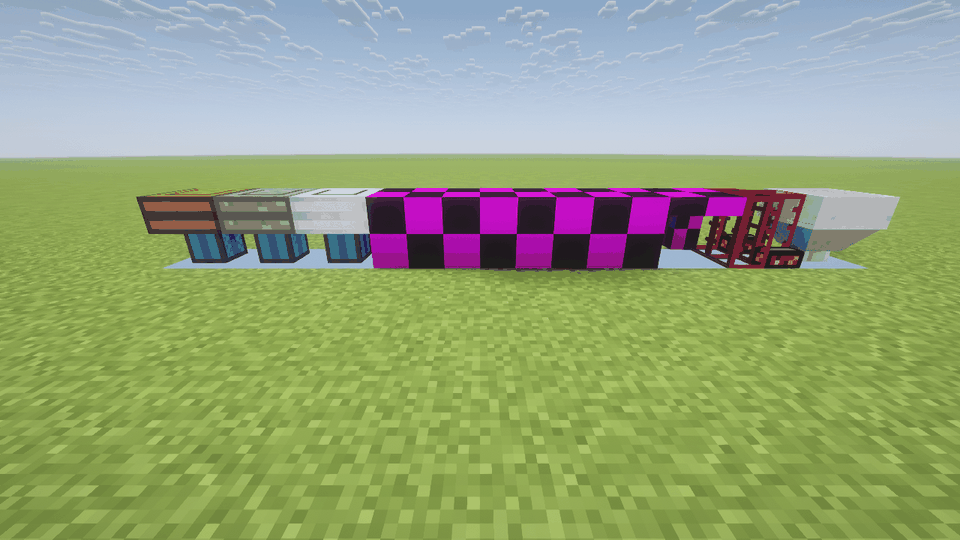
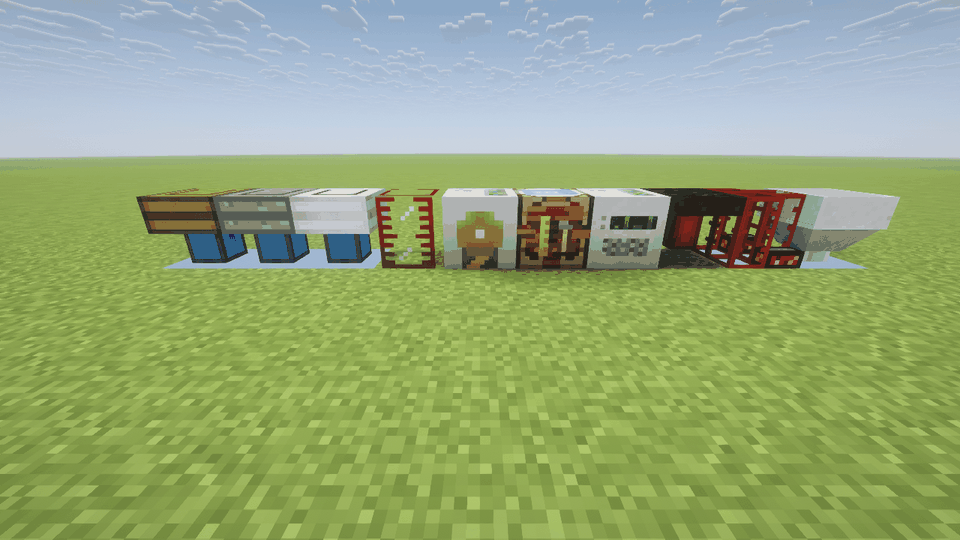
1.4.7: BuildCraft shot, ratings, README and wiki status, BTW status
Claude-Session: https://claude.ai/code/session_013WYWcbTXcR9yZDGwQA1imZ

diff --git a/docs/wiki/Legacy-1.4.7-Estimate.md b/docs/wiki/Legacy-1.4.7-Estimate.md
@@ -87,3 +87,16 @@ Server loads of the corpus in batches (`./gradlew runServerSubTest`, mods in `ru
 - **Fixed this round:** a default-package mod class (ModLoader `mod_X`) kept two private roots; items a numeric-id mod never registers are registered (More Swords); constructor adaptation casts narrowed parameters instead of passing null (AI task owners: every Grimoire mob failed to tick); notch member lookup through packaged Forge interfaces (`ISidedInventory` implementors kept notch method names); one synthesized name per class (flat and packaged `TextureFX` were two classes, a `VerifyError` for RedPower's animated textures); `BiomeCacheBlock` (Twilight Forest chunk generation); the home area on `EntityLiving` (ghasts).
 - **Open:** RedPower's own sheets (`worlditems1.png`, `base1.png`) are cut but its items name tiles through a path the layer does not read yet (`iconIndex` stays -1), tessellator renderers (RedPower multipart, AE cables) are untested, texture animations (`TextureFXManager`) link but do nothing, the liquids API adapter is not written, `@PreInit/@Init/@PostInit` work (every mod above uses them), Mystcraft's age dimensions, Forestry/Binnie's duplicate genetics API classes, Immibis' mods need IC2/ComputerCraft present.
 - **What blocks "supported":** the open items above plus client verification of GUIs for more than one mod; the corpus has no IC2, Railcraft, Thermal Expansion or Thaumcraft 3.
+
+## Status 2026-11-07 (evening: RedPower renders)
+
+Verified in a real client (Sodium, Iris, Complementary shaders; RedPower 2 all modules in the Core/Digital/Mechanical/Compat zips, Applied Energistics rv9, BuildCraft, ComputerCraft, MiscPeripherals, Entity Detector, CCTV, Old Vein Miner, Block Helper, Hopper, rpcDrive); screenshots in `docs/screenshots/old-versions/1.4.7`.
+
+- **Item textures of RedPower:** the cause was not an unread path. RedPower's tools call `Item.setIconCoord(column, row)`, which the shim lacked (a synthesized no-op), so `iconIndex` stayed -1; `ItemParts`-style items (`getIconFromDamage(int)` overrides) already worked through the bridge. `setIconCoord` is now a real method; all RedPower items draw.
+- **Tessellator and multipart renderers:** three defects hid every RedPower block drawn by its own handler. `RenderBlocks.overrideBlockTexture` is an `int` (-1 = none) in 1.4.7 and an `IIcon` in 1.7.10, so the mod's first check (`>= 0`, draw nothing) always passed; reads of it now go through `mcc$overrideIndex()` (member-manual `G` rule). A handler that binds a sprite sheet per part while the Tessellator is drawing (Forge 1.4.7 drew the pending vertices with the old texture before binding) now flushes on `bindTexture(String)` while a block is captured, and each captured quad remembers the sheet it was drawn under; `IsbrhQuads` maps its tile-position UVs to the cut tiles of the atlas (vanilla `/terrain.png` goes through the 256-entry table). `ISimpleBlockRenderingHandler.shouldRender3DInInventory()` lost its argument in 1.7 (bridge rule added, 1.6.4 table, so it also helps 1.6.4 handlers): block items now show their 3D icons.
+- **GUIs:** images are bound by `getTexture(path)` ids; the id is mapped back to the location (the draw code names textures through the render context), so the alloy furnace and deployer GUIs draw. Container slots and clicks sync (items moved into both machines).
+- **Other generic fixes:** boolean `isProvidingWeakPower/StrongPower` bridge (1.4.7 returned a boolean), `Block.getBlockTextureFromSideAndMetadata`, `isDefaultTexture`, `getBlockBrightness`, vanilla blocks' `/terrain.png` index for covers, `EntityPickupFX` (ComputerCraft's turtle client failed verification), `EntityLivingBase.getDropItemId` (reflection by name), dirty marks from the server thread no longer assert in Sodium, `Synth.dispatch` survives a tile class that mentions an absent optional API (a MiscPeripherals tile crashed the world tick on IC2's `ic2.api.Direction`), and the sheet cutter also cuts a mod's own 256x256 `blocks.png`/`items.png` by name (BuildCraft builds those paths at run time).
+- **Liquids:** `net.minecraftforge.liquids` resolves to the 1.6.4 shim (fluid capability adapter) through the forward chain; BuildCraft 3.4.6 links; not exercised at run time.
+- **Still open:** texture animations (`TextureFXManager`: RedPower's `TextureAnimFX`, water/lava tiles of mods) link but do nothing; AE cables placed through the item path and AE GUIs were not tried; survival use of wires and gates (power, logic) and RedPower world generation untried; the RedPower Mining module is not in the corpus; Forestry/Binnie duplicate genetics API; Better Than Wolves is a modified-game jar mod (see below).
+- **What blocks "supported":** animations, a survival session of the RedPower flagship (wire, gate, machine chains; ore generation), GUIs of AE, (the BuildCraft block sheets are cut now and draw). Rating: RedPower works, Entity Detector works, BuildCraft works, AE partial, ComputerCraft partial, CCTV and MiscPeripherals loads.
+- **Better Than Wolves 4.65b** (old-only, a modified-game jar mod): the loader translates it (475 classes, 253 synthesized API classes for the vanilla classes it replaces, 3 unresolved references) and discovers `mod_FCBetterThanWolves`, but construction fails with `ClassNotFoundException: mod_FCBetterThanWolves`. It replaces vanilla classes (mobs, blocks, world generation) rather than adding to them, which the shim cannot express; it would need the vanilla-class-replacement semantics of a patched `minecraft.jar` (the replaced classes loaded in place of the game's) or a rewrite of its changes as hooks. Not near working; no time spent beyond this check.

diff --git a/docs/screenshots/old-versions/README.md b/docs/screenshots/old-versions/README.md
@@ -5,9 +5,18 @@ Taken in a real client (NeoForge 1.21.1, superflat world) through the layer. Mod
 ## 1.4.7
 
 Client set: Sodium, Sodium Extra, Iris, ImmediatelyFast, FerriteCore, ModernFix, EntityCulling, MoreCulling, BadOptimizations, C2ME, Clumps and the shader pack
-Complementary Reimagined r5.9.3 + Euphoria Patches (Iris reported "Using shaderpack"). Both shots are of old-only mods (no file for Minecraft 1.7.2 or newer).
+Complementary Reimagined r5.9.3 + Euphoria Patches (Iris reported "Using shaderpack"). The shots are of old-only mods (BuildCraft excepted) (no file for Minecraft 1.7.2 or newer).
 
 | File | Mod | Version | What it shows | Rating |
 |---|---|---|---|---|
 | `1.4.7/applied-energistics-rv9-blocks-and-quartz-pick-shaders.png` | Applied Energistics (the original, not AE2) | rv9 | Its blocks placed in the world and the quartz pick axe in hand, in creative mode. The quartz ore and the grinder part draw with their sprites cut from the mod's sheet; one multiblock still shows the missing texture | Partly working |
 | `1.4.7/applied-energistics-rv9-quartz-tools-creative-shaders.png` | Applied Energistics, RedPower 2 | rv9, 2.0pr6 | The creative inventory with the quartz pick, sword, wrench and the RedPower diamond saw drawn from sprite sheet indices (1.4.7 has no icons) | Partly working (AE), Partly working (RedPower) |
+| `1.4.7/redpower-world-ores-and-marble-shaders.png` | RedPower 2 (World module) | 2.0pr6 | Ruby, emerald, sapphire and silver ore, marble, basalt, ruby and emerald blocks, a rubber log and leaves, placed in creative mode: block textures come from the mod's own sprite sheet | Works |
+| `1.4.7/redpower-core-items-and-block-icons-shaders.png` | RedPower 2 (Core, Base, Mechanical, Digital, World) | 2.0pr6 | The survival inventory with RedPower items (screwdriver, gems, tools, paint, bag, saw blade) and the 3D icons of block items drawn by the mod's own renderer (gate, deployer, frame, alloy furnace, wire, lamp) | Works |
+| `1.4.7/redpower-multipart-wire-gate-deployer-lamp-shaders.png` | RedPower 2 (Digital, Mechanical) | 2.0pr6 | Logic gates with redstone torches, deployers and lamps placed with the item in creative mode: the multipart tessellator renderer draws them from several sprite sheets | Works |
+| `1.4.7/redpower-base-alloy-furnace-gui-shaders.png` | RedPower 2 (Base) | 2.0pr6 | The alloy furnace GUI with items moved into its slots by clicks (the GUI image is read by its sheet path) | Works |
+| `1.4.7/redpower-machine-deployer-gui-filled-shaders.png` | RedPower 2 (Mechanical) | 2.0pr6 | The deployer GUI after moving two stacks from the hotbar into it: container slots and clicks sync with the server | Works |
+| `1.4.7/applied-energistics-blocks-ore-and-multiblocks-shaders.png` | Applied Energistics | rv9 | Quartz ore and tile-less multiblock parts placed by command; the parts draw as frame cubes, not as cables | Partly working |
+| `1.4.7/applied-energistics-quartz-tools-and-parts-shaders.png` | Applied Energistics | rv9 | Quartz wrench, axe, pick, sword, shovel, hoe, knife, materials and machine items in the inventory | Works |
+| `1.4.7/computercraft-detectors-and-peripherals-shaders.png` | ComputerCraft, Entity Detector, CCTV, MiscPeripherals | 1.5, 1.1, 1.0, 3.1c | Computer, disk drive, turtle, the entity detector blocks, the CCTV camera and two MiscPeripherals blocks | Works (blocks), untried (use) |
+| `1.4.7/buildcraft-engines-tank-pump-workbench-shaders.png` | BuildCraft | 3.4.6 | The three engines, tank, pump, auto workbench, mining well, laser, refinery and hopper placed in creative mode, drawn from the mod's block sheet | Works |
